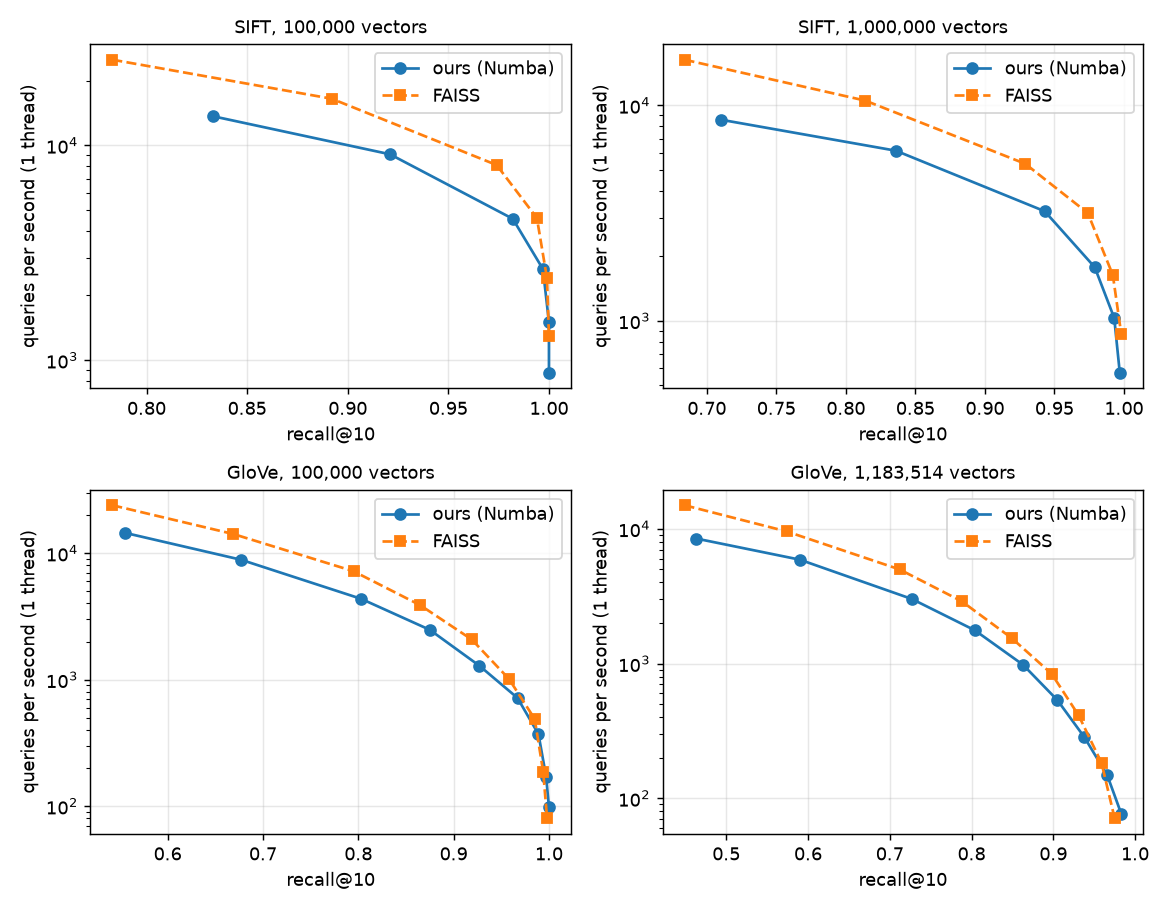
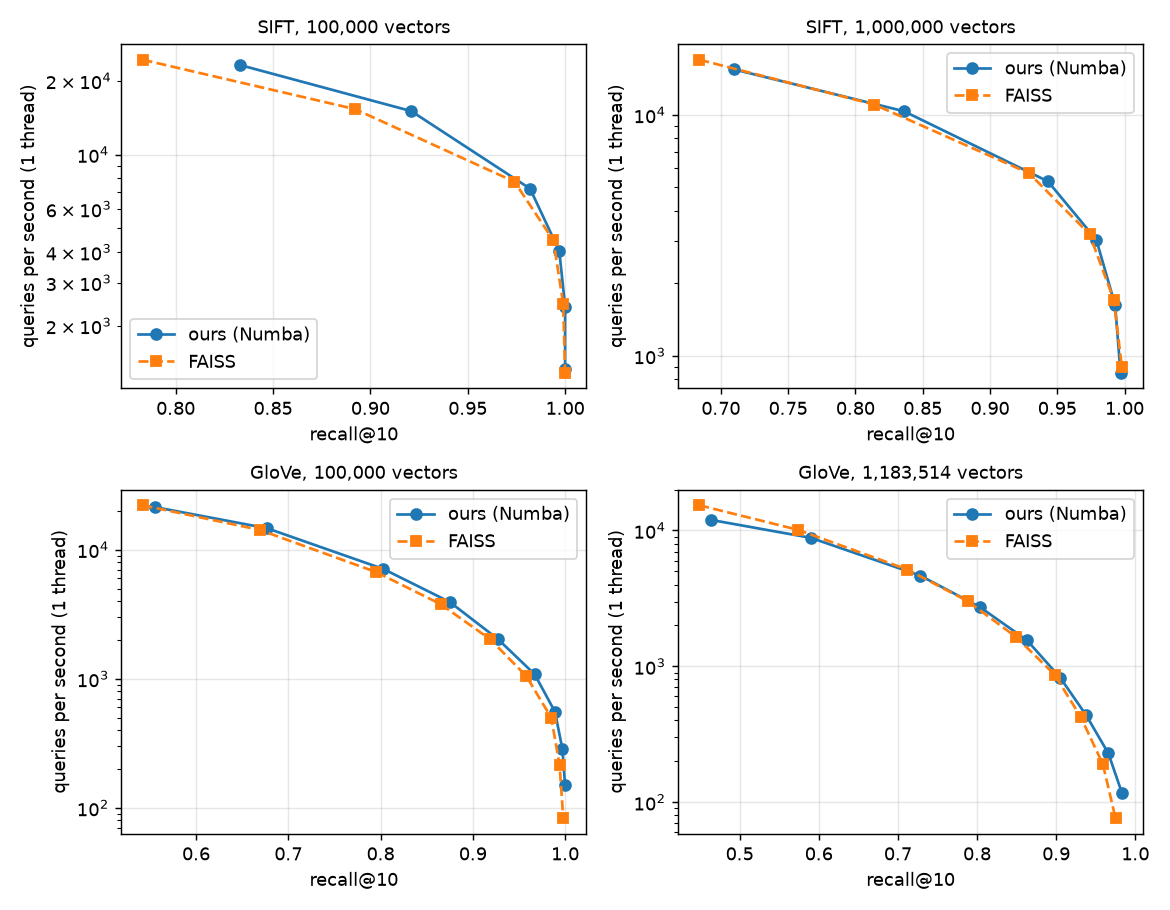
Rerun all benchmarks with the faster build and float32 distances, merge the GloVe logs

diff --git a/plot_results.py b/plot_results.py
@@ -12,8 +12,8 @@ ROW = re.compile(r"^(\d+)\s+([\d.]+) /\s*(\d+)\s+([\d.]+) /\s*(\d+)")
 RUNS = {
     "SIFT, 100,000 vectors": "faiss_100k.log",
     "SIFT, 1,000,000 vectors": "faiss_1m.log",
-    "GloVe, 100,000 vectors": "glove_100k.log glove_100k_high_ef.log",
-    "GloVe, 1,183,514 vectors": "glove_full.log glove_full_high_ef.log",
+    "GloVe, 100,000 vectors": "glove_100k.log",
+    "GloVe, 1,183,514 vectors": "glove_full.log",
 }
 
 

diff --git a/README.md b/README.md
@@ -4,7 +4,7 @@ An approximate nearest neighbour index written from scratch in Python and NumPy.
 
 ## Status
 
-Done: an exact baseline, HNSW in Python and in Numba, a comparison with FAISS on SIFT at 100,000 and 1,000,000 vectors, multi-threaded build and search, and product quantization. At equal recall our index is about 1.0 to 1.1 times slower than FAISS on one thread on SIFT at 100,000 vectors (1.3 to 1.8 times on the other, older measurements). It is 20 times faster than exact search at 1,000,000 vectors, and product quantization shrinks the index by a factor of five at 100,000 vectors. On GloVe, a harder dataset, the picture is the same but recall is much lower for the same ef, and at very high recall (ef = 3,200) our index matches or passes FAISS.
+Done: an exact baseline, HNSW in Python and in Numba, a comparison with FAISS on SIFT at 100,000 and 1,000,000 vectors, multi-threaded build and search, and product quantization. At equal recall our index is about 1.0 to 1.1 times slower than FAISS on one thread on SIFT at 100,000 and 1,000,000 vectors. It is 34 times faster than exact search at 1,000,000 vectors, and product quantization shrinks the index by a factor of five at 100,000 vectors. On GloVe, a harder dataset, recall is much lower for the same ef, FAISS is up to 28 percent faster on the full set at low ef, and our index matches or passes it from ef = 800 up.
 
 ## Baseline
 
@@ -21,7 +21,7 @@ Numbers come from one 4-core server and vary a little from run to run (880 queri
 
 FAISS `IndexHNSWFlat` against our Numba index (`annindex/hnsw_fast.py`), same data and parameters (M = 16, efConstruction = 100), one thread each, 1,000 queries, k = 10. The script is `faiss_compare.py`. FAISS memory is the size of its serialized index.
 
-100,000 vectors. Build: ours 26.2 s and 61.9 MB, FAISS 20.6 s and 65.6 MB. Exact search: about 880 queries per second. This table was measured after the distance loop switched to float32 sums (see below); the 1,000,000 SIFT, GloVe and four-thread tables further down were measured before that change and are slower than the current code would be.
+100,000 vectors. Build: ours 26.2 s and 61.9 MB, FAISS 20.6 s and 65.6 MB. Exact search: about 880 queries per second.
 
 | ef | Ours: recall, queries per second | FAISS: recall, queries per second |
 |---|---|---|
@@ -32,56 +32,56 @@ FAISS `IndexHNSWFlat` against our Numba index (`annindex/hnsw_fast.py`), same da
 | 200 | 1.000, 2,396 | 0.999, 2,459 |
 | 400 | 1.000, 1,332 | 1.000, 1,285 |
 
-1,000,000 vectors (the full SIFT base set). Build: ours 586 s and 618.5 MB, FAISS 332 s and 656.3 MB. The raw vectors take 512 MB. Exact search: 88 queries per second.
+1,000,000 vectors (the full SIFT base set). Build: ours 365 s and 618.5 MB, FAISS 321 s and 656.3 MB. The raw vectors take 512 MB. Exact search: 88 queries per second.
 
 | ef | Ours: recall, queries per second | FAISS: recall, queries per second |
 |---|---|---|
-| 10 | 0.710, 8,584 | 0.684, 16,303 |
-| 20 | 0.836, 6,160 | 0.814, 10,525 |
-| 50 | 0.943, 3,224 | 0.929, 5,357 |
-| 100 | 0.979, 1,771 | 0.974, 3,161 |
-| 200 | 0.993, 1,029 | 0.992, 1,630 |
-| 400 | 0.997, 573 | 0.998, 871 |
+| 10 | 0.710, 15,446 | 0.684, 16,957 |
+| 20 | 0.836, 10,364 | 0.814, 11,048 |
+| 50 | 0.943, 5,301 | 0.929, 5,727 |
+| 100 | 0.979, 3,034 | 0.974, 3,197 |
+| 200 | 0.993, 1,622 | 0.992, 1,705 |
+| 400 | 0.997, 850 | 0.998, 898 |
 
-At the same ef our recall is a little higher. We have not checked why, but the two libraries may not do the same amount of work for the same ef, so the fair comparison is recall against speed. Judged that way, FAISS answers about 1.3 times as many queries per second at 100,000 vectors and about 1.5 times as many at 1,000,000. At 1,000,000 vectors our index reaches recall 0.979 at 1,771 queries per second, 20 times faster than exact search.
+At the same ef our recall is a little higher. We have not checked why, but the two libraries may not do the same amount of work for the same ef, so the fair comparison is recall against speed. Judged that way, FAISS answers about 1.05 to 1.1 times as many queries per second as ours at 100,000 vectors and at 1,000,000 vectors, with our index ahead at ef = 400 at 100,000. At 1,000,000 vectors our index reaches recall 0.979 at 3,034 queries per second, 34 times faster than exact search.
 
-A remaining gap to FAISS is expected. FAISS is tuned C++ with hand-vectorized distance code, while ours is Numba code with a plain loop for each distance.
+The remaining gap to FAISS is small. FAISS is tuned C++ with hand-vectorized distance code, while ours is Numba code with a plain float32 loop for each distance.
 
 ## GloVe, a harder dataset
 
 GloVe word vectors (100 dimensions, 1,183,514 base vectors, cosine distance) from ann-benchmarks. Same parameters (M = 16, efConstruction = 100), one thread, 1,000 queries, k = 10. FAISS gets unit-length vectors, since cosine ranking equals Euclidean ranking on those. Run with `python faiss_compare.py --dataset glove --n 100000`; logs are in `results/`.
 
-100,000 vectors. Build: ours 49.9 s and 50.4 MB, FAISS 24.0 s and 54.4 MB. Exact search: 865 queries per second.
+100,000 vectors. Build: ours 31.2 s and 50.4 MB, FAISS 25.4 s and 54.4 MB. Exact search: 865 queries per second.
 
 | ef | Ours: recall, queries per second | FAISS: recall, queries per second |
 |---|---|---|
-| 10 | 0.555, 14,496 | 0.542, 23,936 |
-| 20 | 0.677, 8,871 | 0.669, 14,167 |
-| 50 | 0.803, 4,353 | 0.795, 7,197 |
-| 100 | 0.875, 2,404 | 0.865, 3,902 |
-| 200 | 0.927, 1,287 | 0.919, 2,076 |
-| 400 | 0.967, 724 | 0.958, 1,062 |
-| 800 | 0.989, 370 | 0.985, 489 |
-| 1,600 | 0.997, 171 | 0.994, 186 |
-| 3,200 | 1.000, 98 | 0.998, 80 |
+| 10 | 0.555, 21,411 | 0.542, 22,108 |
+| 20 | 0.677, 14,656 | 0.669, 14,237 |
+| 50 | 0.803, 7,091 | 0.795, 6,719 |
+| 100 | 0.875, 3,933 | 0.865, 3,789 |
+| 200 | 0.927, 2,034 | 0.919, 2,017 |
+| 400 | 0.967, 1,083 | 0.958, 1,047 |
+| 800 | 0.989, 555 | 0.985, 499 |
+| 1,600 | 0.997, 287 | 0.994, 215 |
+| 3,200 | 1.000, 149 | 0.998, 83 |
 
-All 1,183,514 vectors. Build: ours 842 s and 594.5 MB, FAISS 457 s and 644.2 MB. The raw vectors take 473 MB. Exact search: 60 queries per second.
+All 1,183,514 vectors. Build: ours 499 s and 594.5 MB, FAISS 412 s and 644.2 MB. The raw vectors take 473 MB. Exact search: 60 queries per second.
 
 | ef | Ours: recall, queries per second | FAISS: recall, queries per second |
 |---|---|---|
-| 10 | 0.463, 8,481 | 0.449, 14,975 |
-| 20 | 0.590, 5,906 | 0.574, 9,564 |
-| 50 | 0.727, 3,016 | 0.712, 4,999 |
-| 100 | 0.804, 1,766 | 0.788, 2,899 |
-| 200 | 0.863, 979 | 0.849, 1,547 |
-| 400 | 0.905, 529 | 0.898, 836 |
-| 800 | 0.938, 284 | 0.931, 412 |
-| 1,600 | 0.966, 148 | 0.959, 183 |
-| 3,200 | 0.983, 77 | 0.975, 71 |
+| 10 | 0.464, 11,961 | 0.449, 15,344 |
+| 20 | 0.590, 8,829 | 0.574, 10,103 |
+| 50 | 0.728, 4,662 | 0.712, 5,155 |
+| 100 | 0.804, 2,721 | 0.788, 3,020 |
+| 200 | 0.863, 1,556 | 0.849, 1,649 |
+| 400 | 0.905, 826 | 0.898, 869 |
+| 800 | 0.938, 435 | 0.931, 424 |
+| 1,600 | 0.966, 228 | 0.959, 190 |
+| 3,200 | 0.983, 117 | 0.975, 76 |
 
-GloVe is much harder than SIFT. On 100,000 vectors ef = 100 gives recall 0.875, where SIFT gave 0.997, and on the full set it takes ef = 400 to pass 0.9. The word vectors have no clear clusters, so the graph search has to visit far more points to find the true neighbours. Even so, our index at ef = 100 on the full set answers 1,766 queries per second at recall 0.804, which is 29 times faster than exact search. The gap to FAISS is the same as on SIFT, about 1.4 to 1.6 times at equal recall, with our recall slightly higher at the same ef.
+GloVe is much harder than SIFT. On 100,000 vectors ef = 100 gives recall 0.875, where SIFT gave 0.997, and on the full set it takes ef = 400 to pass 0.9. The word vectors have no clear clusters, so the graph search has to visit far more points to find the true neighbours. Even so, our index at ef = 100 on the full set answers 2,721 queries per second at recall 0.804, which is 45 times faster than exact search.
 
-The rows for ef = 800 and above come from a second run (`results/glove_100k_high_ef.log` and `results/glove_full_high_ef.log`), so the numbers for ef = 100 and 400 there differ slightly from the first run. At very high recall the gap closes. On the full set, recall 0.966 takes 148 queries per second with our index and 183 with FAISS at ef = 1,600, but at ef = 3,200 ours reaches 0.983 at 77 queries per second against 0.975 at 71 for FAISS. At 100,000 vectors ours reaches recall 1.000 at 98 queries per second against 0.998 at 80. We have not checked why the curves cross. Exact search matters here too: at 100,000 vectors it handles 865 queries per second, which is faster than either index once recall is above about 0.95 (at ef = 400 ours reaches 0.967 at 724). On the full set exact search handles 60 queries per second, so the graph index is still ahead there, though only by a little at ef = 3,200.
+Against FAISS the two are close. At 100,000 vectors ours is level or ahead from ef = 20 up, and 1.8 times as fast at ef = 3,200 (149 queries per second against 83, recall 1.000 against 0.998). On the full set FAISS is ahead by up to 28 percent at low ef (ef = 10 to 400), and ours is ahead from ef = 800 (435 against 424), reaching 0.983 at 117 queries per second against 0.975 at 76 for FAISS at ef = 3,200. We have not checked why the curves cross. Our recall is also a little higher at the same ef throughout. Exact search matters here too: at 100,000 vectors it handles 865 queries per second, which is faster than either index once recall is above about 0.98 (at ef = 400 ours reaches 0.967 at 1,083, but at ef = 800 it reaches 0.989 at only 555). On the full set exact search handles 60 queries per second, so the graph index is still well ahead there.
 
 ![Recall against queries per second, SIFT and GloVe, ours and FAISS](results/recall_vs_qps.png)
 
@@ -89,18 +89,18 @@ The rows for ef = 800 and above come from a second run (`results/glove_100k_high
 
 `HNSWFast.add(data, threads=4)` and `HNSWFast.search(queries, k, ef, threads=4)` use several threads. Searching splits the queries into chunks, one per thread, and returns the same answers as one thread. Building inserts the points in batches of 64. Each batch looks for neighbours in parallel against the graph built so far and is then linked in parallel, so points in the same batch do not see each other. Linking gives exactly the graph that adding the points one after another would give: each new point's own links are written on separate threads, and the links back to existing points are grouped by target and applied in node order. The graph therefore does not depend on the thread count, and `tests/test_hnsw_fast.py` checks that. That cost almost no recall (0.981 against 0.982 at ef = 50), and the first 2,000 points go in one at a time.
 
-Four threads on 100,000 vectors, same parameters as above. Build: ours 15 s after parallelising the linking step (two runs, 15.2 s and 14.9 s; 22.8 s in the logged run below, which linked each batch in order, and 37 s on one thread), FAISS 6.3 s. The graph is identical in both versions, so the table below still holds.
+Four threads on 100,000 vectors, same parameters as above. Build: ours 10.9 s (26.2 s on one thread), FAISS 5.6 s.
 
 | ef | Ours: recall, queries per second | FAISS: recall, queries per second |
 |---|---|---|
-| 10 | 0.831, 29,388 | 0.783, 49,016 |
-| 20 | 0.918, 18,653 | 0.892, 47,934 |
-| 50 | 0.981, 13,312 | 0.974, 23,288 |
-| 100 | 0.997, 7,643 | 0.994, 13,372 |
-| 200 | 1.000, 4,413 | 0.999, 7,484 |
-| 400 | 1.000, 2,547 | 1.000, 4,004 |
+| 10 | 0.831, 44,541 | 0.783, 61,270 |
+| 20 | 0.918, 32,508 | 0.892, 45,818 |
+| 50 | 0.981, 21,578 | 0.974, 27,270 |
+| 100 | 0.997, 13,659 | 0.994, 15,855 |
+| 200 | 1.000, 6,471 | 0.999, 8,572 |
+| 400 | 1.000, 4,308 | 1.000, 4,707 |
 
-Search speed grows about 3 to 4 times with four threads for both libraries, so the gap to FAISS stays the same. Multi-thread timings on this shared server vary by 20 to 30 percent between runs. The build gains less than the search; the first 2,000 points are still inserted on one thread.
+Search speed grows about 3 times with four threads for both libraries, so the gap to FAISS stays about the same. Multi-thread timings on this shared server vary by 20 to 30 percent between runs. The build gains less than the search; the first 2,000 points are still inserted on one thread.
 
 ## Product quantization
 
@@ -113,7 +113,7 @@ Product quantization (`annindex/pq.py`) splits each 128 dimensional vector into 
 | 16 | 12.5 MB | 0.618 | 0.986 at ef = 100 |
 | 32 | 14.1 MB | 0.756 | 0.995 at ef = 100 |
 
-Searching through codes alone is limited by the quantization error. Recall stays at 0.62 (16 pieces) and 0.76 (32 pieces) however large ef is, which matches a full scan of the same codes. Re-scoring the candidates with the raw vectors restores recall to 0.986 and 0.995, and it is still faster than the raw search (5,093 queries per second against 2,957 at ef = 100 with 16 pieces) because code lookups are cheaper than 128 dimensional distances. The catch is that the raw vectors are still needed for the re-score, for example on disk, so this saves memory only if they are kept off the main memory. Full numbers for each ef value are in `results/pq_100k.log`.
+Searching through codes alone is limited by the quantization error. Recall stays at 0.62 (16 pieces) and 0.76 (32 pieces) however large ef is, which matches a full scan of the same codes. Re-scoring the candidates with the raw vectors restores recall to 0.986 and 0.995, and it is still faster than the raw search (4,875 queries per second against 3,689 at ef = 100 with 16 pieces; with 32 pieces the two are level, 4,328 against 4,232) because code lookups are cheaper than 128 dimensional distances. The catch is that the raw vectors are still needed for the re-score, for example on disk, so this saves memory only if they are kept off the main memory. Full numbers for each ef value are in `results/pq_100k.log`.
 
 ## Speed work
 
@@ -153,5 +153,4 @@ python -m pytest
 
 ## Possible next steps
 
-1. Rerun the 1,000,000 SIFT, GloVe and four-thread tables with the float32 distance loop.
-2. Store the raw vectors on disk for the re-score in the compressed index.
+1. Store the raw vectors on disk for the re-score in the compressed index.
